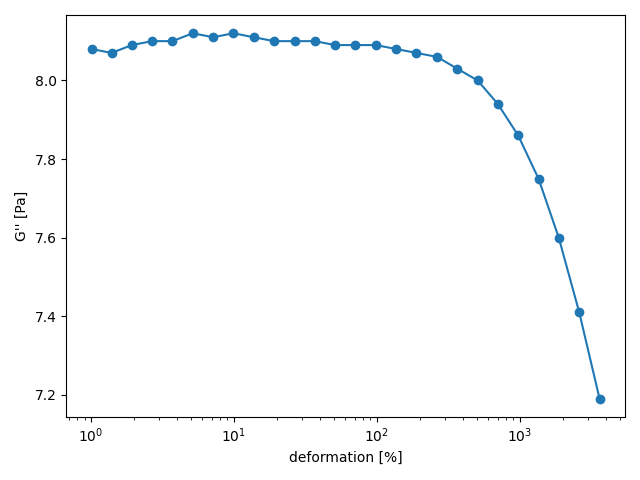
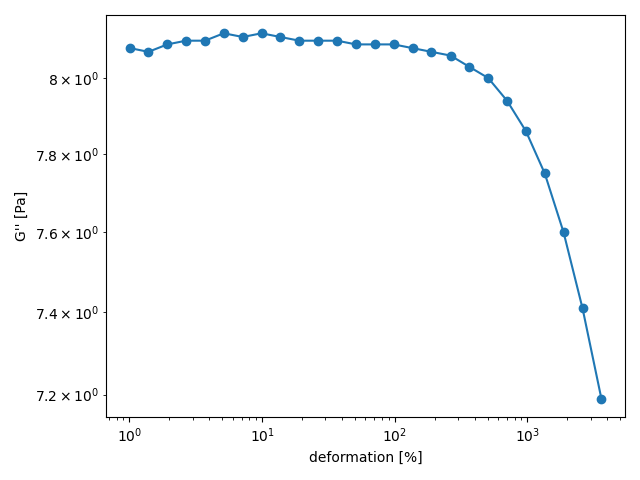
Rheo fertig

diff --git a/1. Abgabe/Rheology/Plots/plotsAufgabe2AMP.py b/1. Abgabe/Rheology/Plots/plotsAufgabe2AMP.py
@@ -30,6 +30,7 @@ plt.show()
 # --- Plot 2: G'' ---
 plt.figure() # Erstellt ein frisches Fenster
 plt.xscale("log")
+plt.yscale("log")
 plt.plot(amplitude * 1000, g2, marker = "o")
 
 # plt.ylim() wurde entfernt, da es ohne Argumente die Achsen stören kann
@@ -42,6 +43,7 @@ plt.show()
 # --- Plot 3: Viskosität ---
 plt.figure()
 plt.xscale("log")
+plt.yscale("log")
 plt.plot(amplitude *1000, eta, marker = "o")
 
 plt.xlabel("deformation [%]")

diff --git a/1. Abgabe/Rheology/Plots/plotsAufgabe2FRQ.py b/1. Abgabe/Rheology/Plots/plotsAufgabe2FRQ.py
@@ -10,6 +10,7 @@ data = ["20_PVP_amp", "20_PVP_frq"]
 plt.xlabel("$\omega$ [$s^{-1}$]")
 plt.ylabel("|$\eta$*| [Pa $\cdot$ s]")
 plt.xscale("log")
+plt.yscale("log")
 
 
 dataFRQ = pd.read_csv(allDataPath + "\\" + data[1] + ".csv", sep = ";", decimal = ",")
